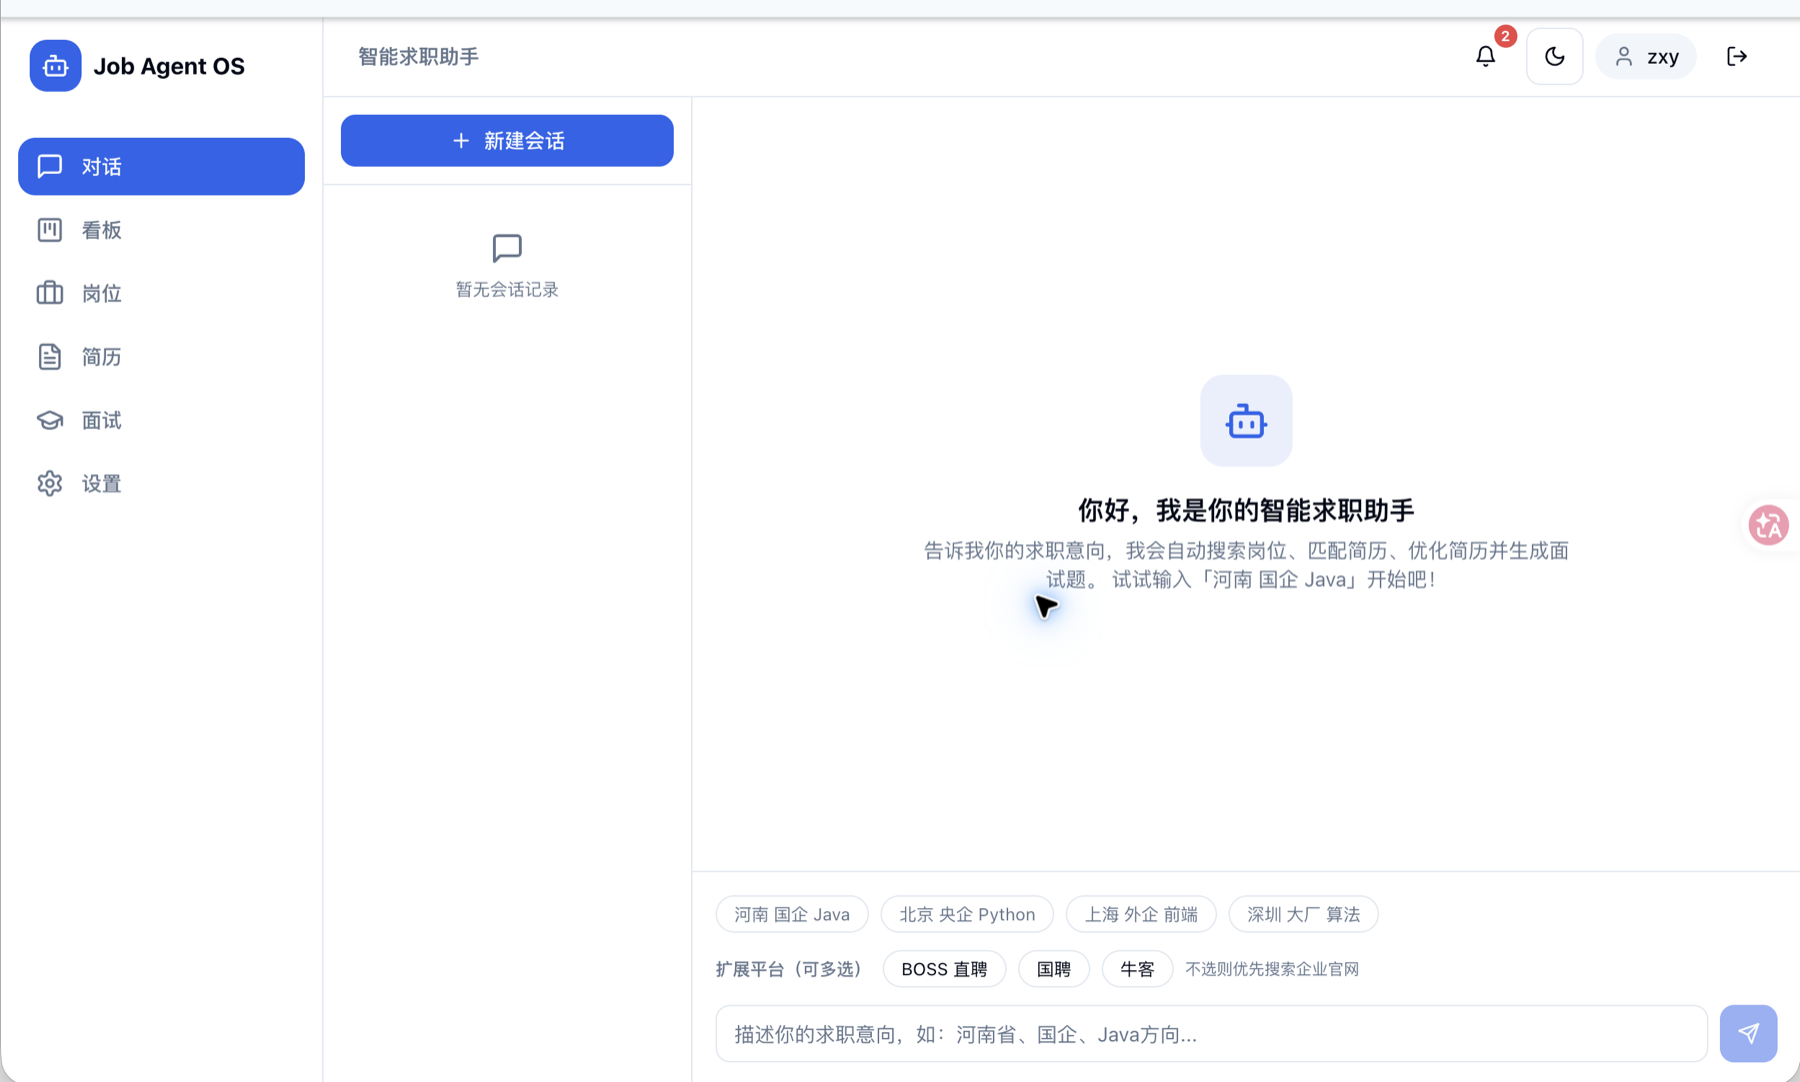
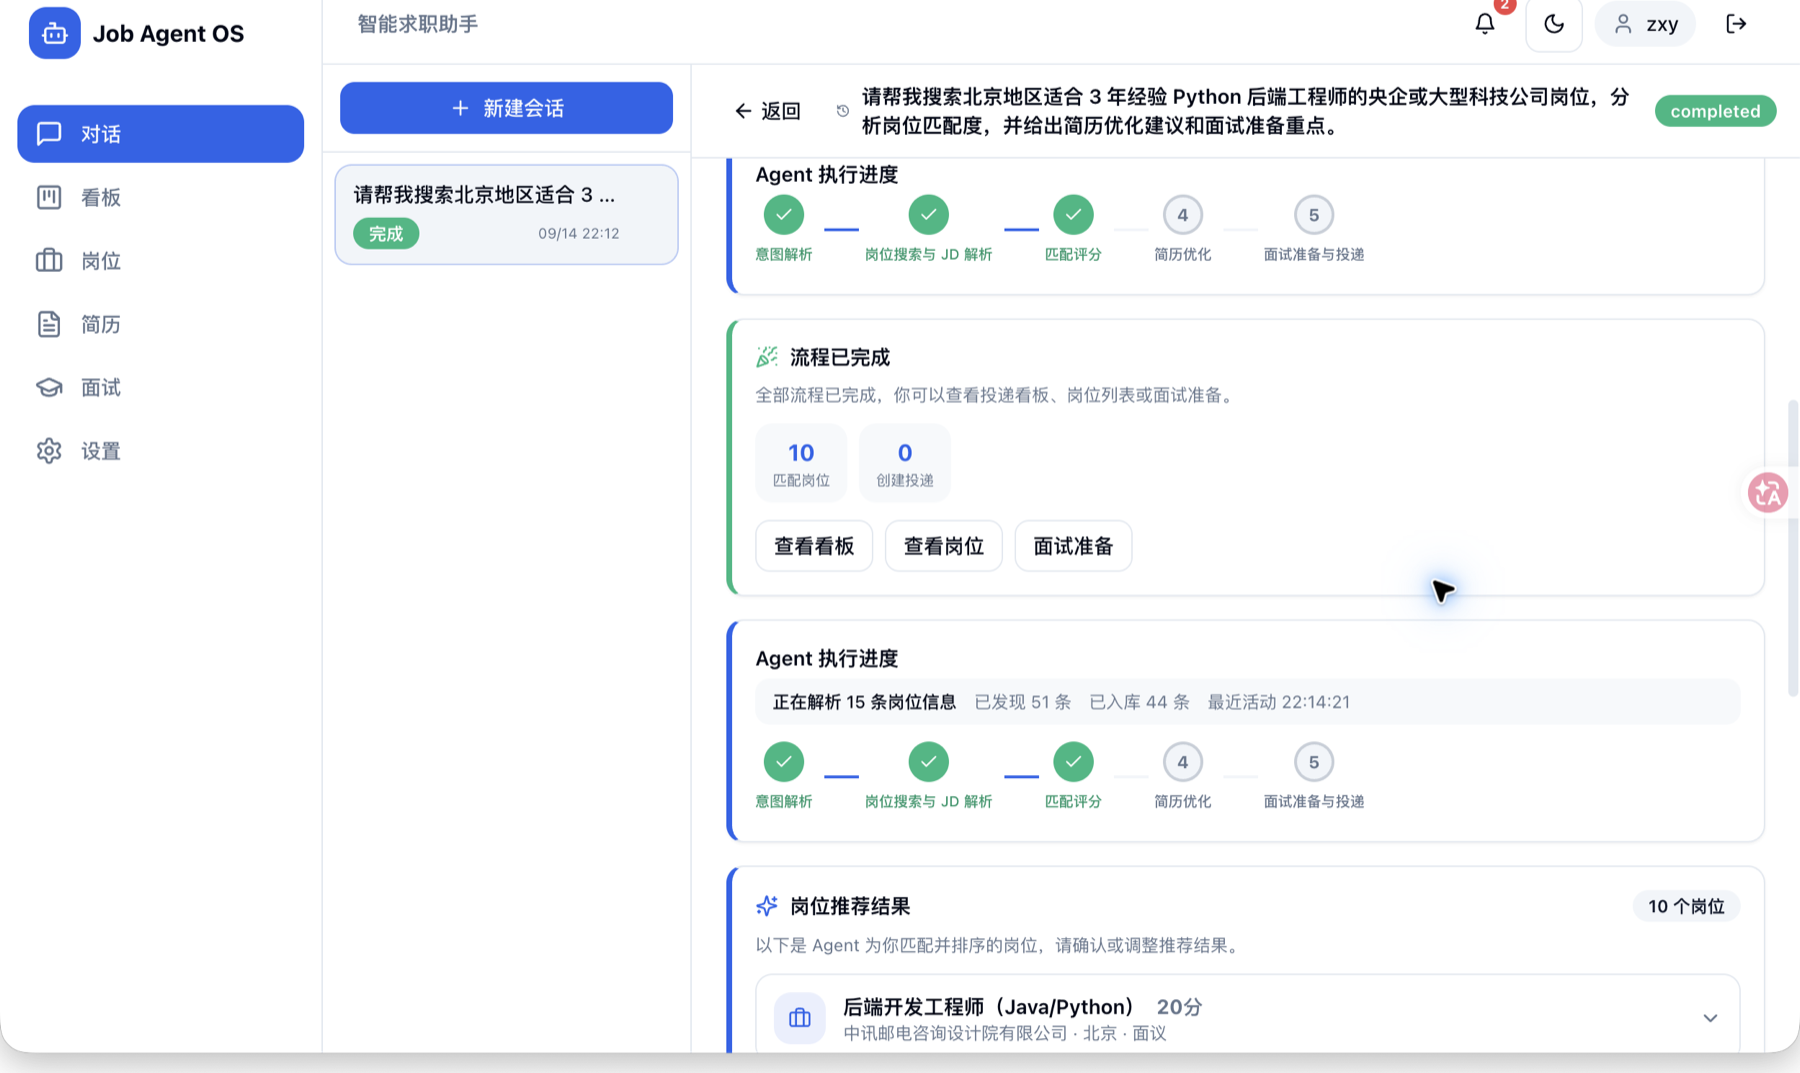
fix: render completed agent results in project showcase

diff --git a/job-agent-os/src/job_agent_os/services/session_service.py b/job-agent-os/src/job_agent_os/services/session_service.py
@@ -830,7 +830,41 @@ class SessionService:
                 message="Session not found",
                 code=ErrorCode.SESSION_NOT_FOUND,
             )
-        return info.get("results_summary", {}).get("recommendations", [])
+        recommendations = info.get("results_summary", {}).get("recommendations", [])
+        if not isinstance(recommendations, list):
+            return []
+
+        # MatchAgent stores its canonical score as ``overall_score`` while the
+        # recommendations API/frontend contract calls the same value
+        # ``match_score``.  Keep persisted graph state intact and adapt it at
+        # the API boundary.  Lua cjson may also turn nested empty arrays into
+        # empty objects, so restore those list fields here as well.
+        normalized: list[dict] = []
+        for item in recommendations:
+            if not isinstance(item, dict):
+                continue
+            recommendation = dict(item)
+            recommendation.setdefault(
+                "match_score", recommendation.get("overall_score", 0)
+            )
+            for field in ("matched_skills", "missing_skills", "risk_factors"):
+                if not isinstance(recommendation.get(field), list):
+                    recommendation[field] = []
+
+            job = recommendation.get("job")
+            if isinstance(job, dict):
+                job = dict(job)
+                job.setdefault("salary_range", job.get("salary"))
+                job.setdefault("education_required", job.get("education"))
+                if not isinstance(job.get("skills_required"), list):
+                    job["skills_required"] = []
+                if not isinstance(job.get("structured_jd"), dict):
+                    job["structured_jd"] = {}
+                recommendation["job"] = job
+
+            normalized.append(recommendation)
+
+        return normalized
 
     # ------------------------------------------------------------------
     # Feedback (issue #7)

diff --git a/job-agent-os/tests/unit/test_services/test_session_service.py b/job-agent-os/tests/unit/test_services/test_session_service.py
@@ -1,0 +1,44 @@
+"""Focused tests for session result serialization."""
+
+from types import SimpleNamespace
+from unittest.mock import AsyncMock
+from uuid import uuid4
+
+from job_agent_os.services.session_service import SessionService
+
+
+async def test_get_recommendations_adapts_graph_result_to_api_contract():
+    user_id = uuid4()
+    session_id = uuid4()
+    service = SessionService(AsyncMock())
+    service.store = AsyncMock()
+    service.store.get.return_value = {
+        "user_id": str(user_id),
+        "results_summary": {
+            "recommendations": [
+                {
+                    "overall_score": 20,
+                    "matched_skills": {},
+                    "missing_skills": {},
+                    "risk_factors": ["未提供用户简历"],
+                    "job": {
+                        "id": str(uuid4()),
+                        "title": "Python 工程师",
+                        "salary": "15k-23k",
+                        "skills_required": {},
+                    },
+                }
+            ]
+        },
+    }
+
+    items = await service.get_recommendations(
+        SimpleNamespace(id=user_id), session_id
+    )
+
+    assert items[0]["match_score"] == 20
+    assert items[0]["matched_skills"] == []
+    assert items[0]["missing_skills"] == []
+    assert items[0]["job"]["salary_range"] == "15k-23k"
+    assert items[0]["job"]["skills_required"] == []
+

diff --git a/job-agent-os/src/job_agent_os/services/session_store.py b/job-agent-os/src/job_agent_os/services/session_store.py
@@ -77,7 +77,29 @@ class SessionStore:
             return None
         if not isinstance(decoded, dict):
             return None
-        return cast(dict[str, Any], decoded)
+        info = cast(dict[str, Any], decoded)
+
+        # Redis Lua's cjson encoder serializes an empty Lua table as ``{}``,
+        # even when the value originated from a JSON array.  Normalise the
+        # known list fields before Pydantic/frontend consumers validate them.
+        progress = info.get("progress")
+        if isinstance(progress, dict):
+            for field in ("completed_steps", "pending_steps"):
+                if progress.get(field) == {}:
+                    progress[field] = []
+
+        results = info.get("results_summary")
+        if isinstance(results, dict):
+            for field in (
+                "recommendations",
+                "resume_diff",
+                "interview_questions",
+                "agent_execution_order",
+            ):
+                if results.get(field) == {}:
+                    results[field] = []
+
+        return info
 
     # --- Public API ---
 

diff --git a/job-agent-os/tests/unit/test_services/test_session_store.py b/job-agent-os/tests/unit/test_services/test_session_store.py
@@ -104,6 +104,26 @@ class TestSessionStoreDegradedMode:
 
 
 class TestSessionStoreSerialization:
+    def test_decode_normalizes_empty_arrays_encoded_by_lua_cjson(self):
+        raw = json.dumps(
+            {
+                "progress": {"completed_steps": ["intent"], "pending_steps": {}},
+                "results_summary": {
+                    "recommendations": [],
+                    "resume_diff": {},
+                    "interview_questions": {},
+                    "agent_execution_order": ["intent"],
+                },
+            }
+        )
+
+        info = SessionStore._decode_info(raw)
+
+        assert info is not None
+        assert info["progress"]["pending_steps"] == []
+        assert info["results_summary"]["resume_diff"] == []
+        assert info["results_summary"]["interview_questions"] == []
+
     async def test_non_json_native_values_survive(self):
         """datetime-like values get stringified by default=str."""
         from datetime import UTC, datetime
